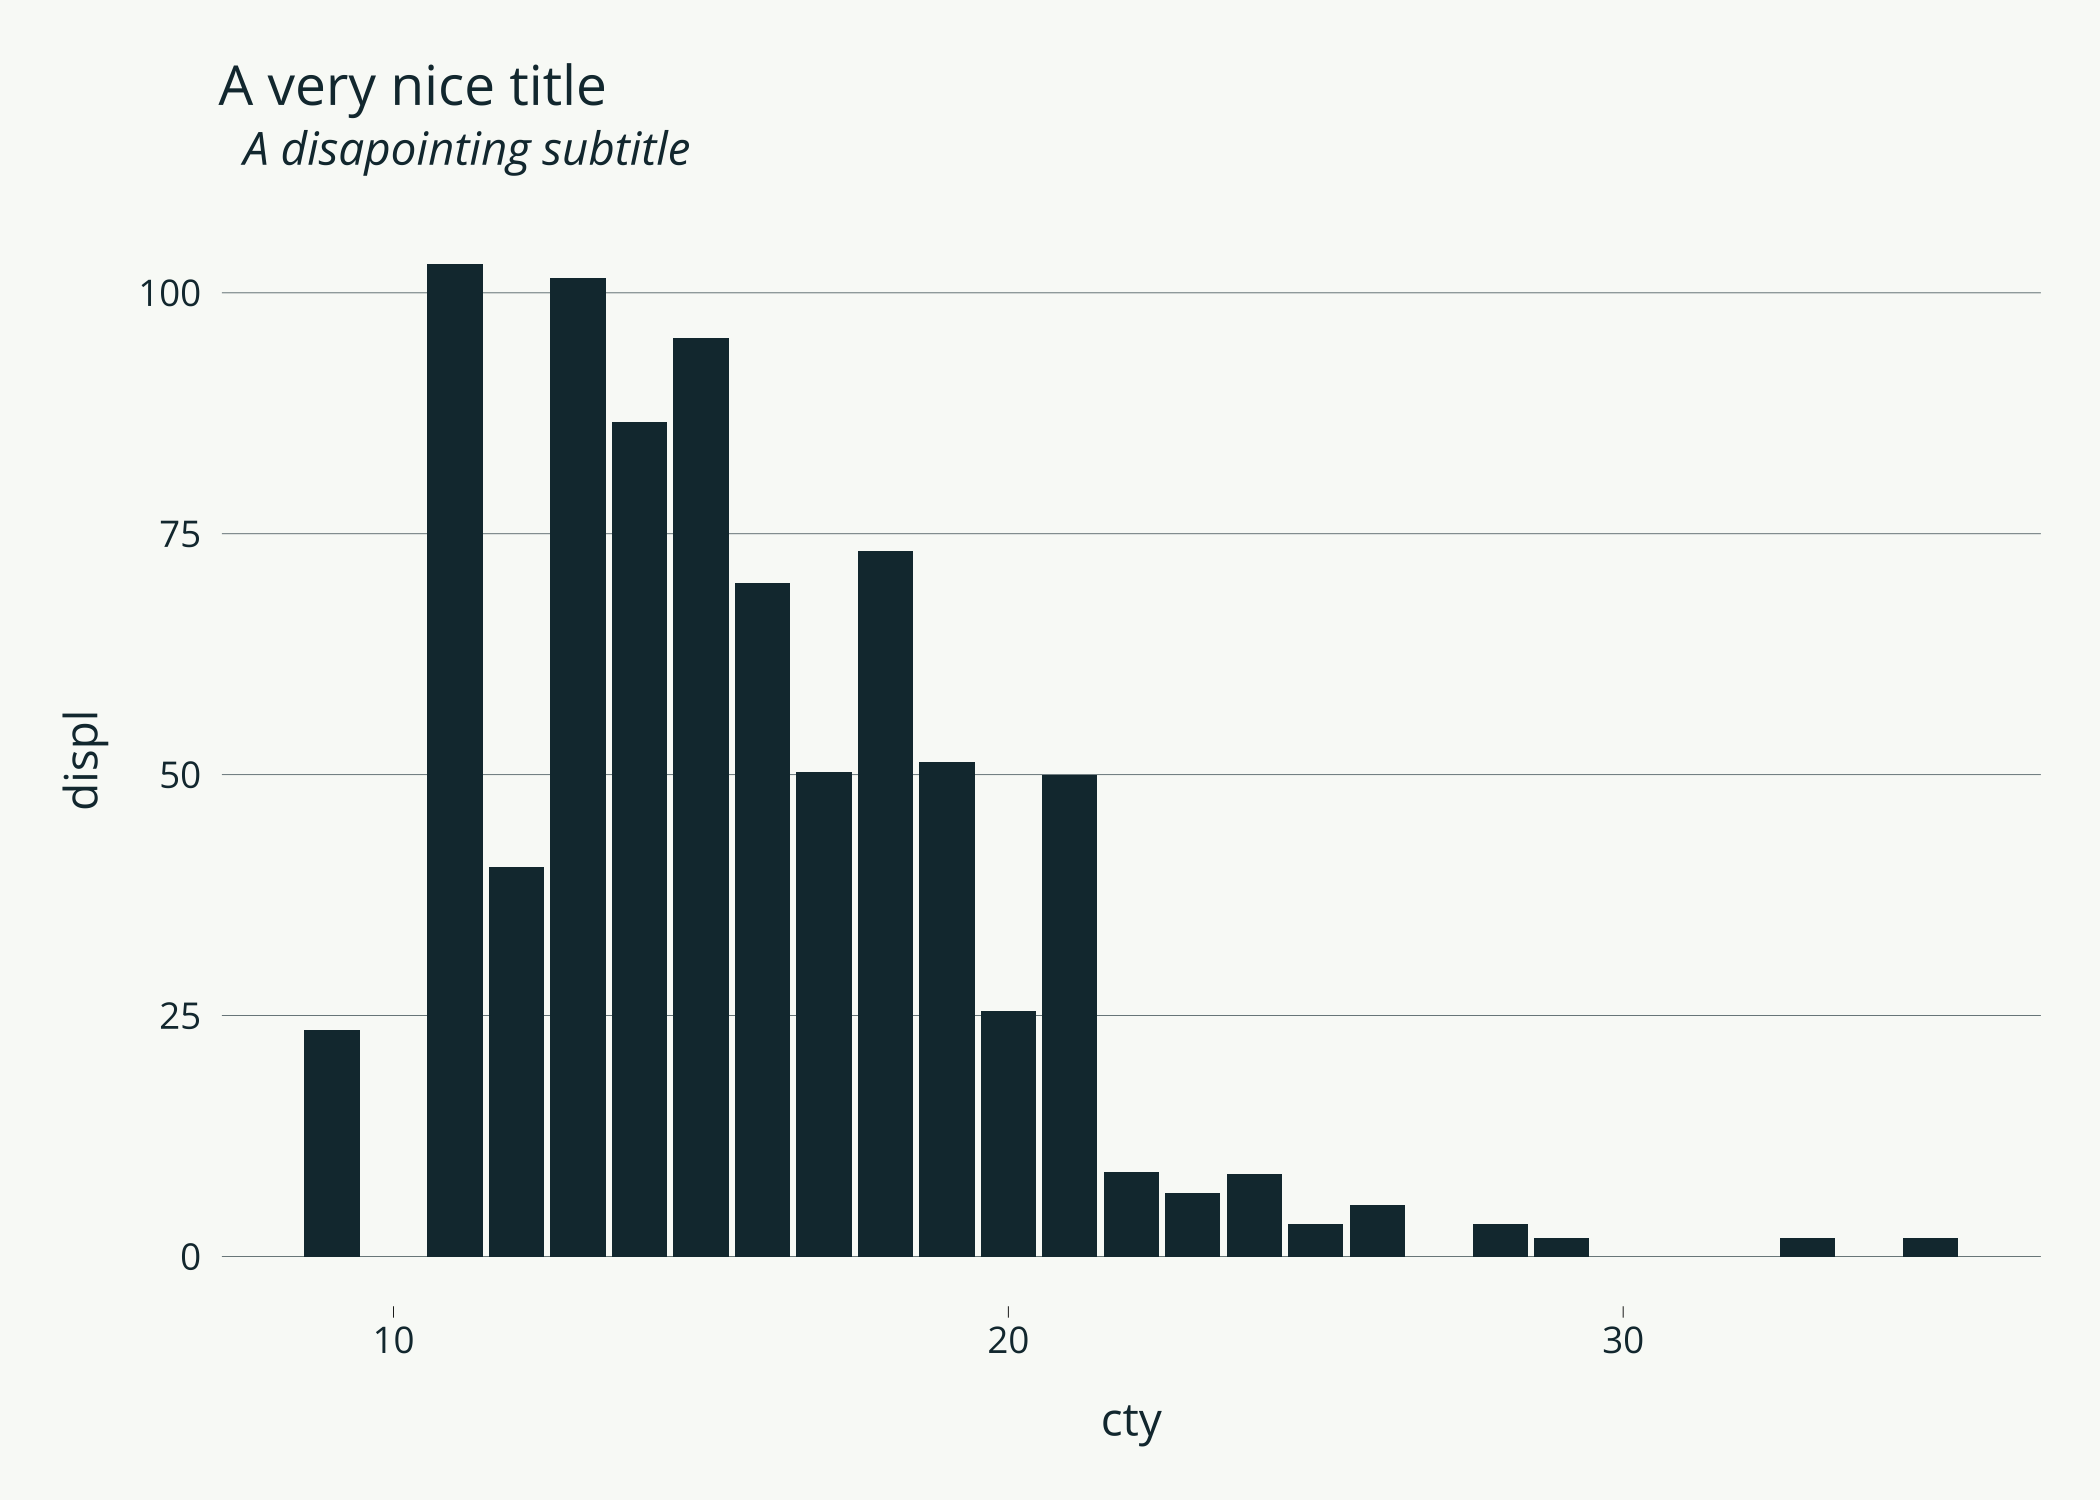
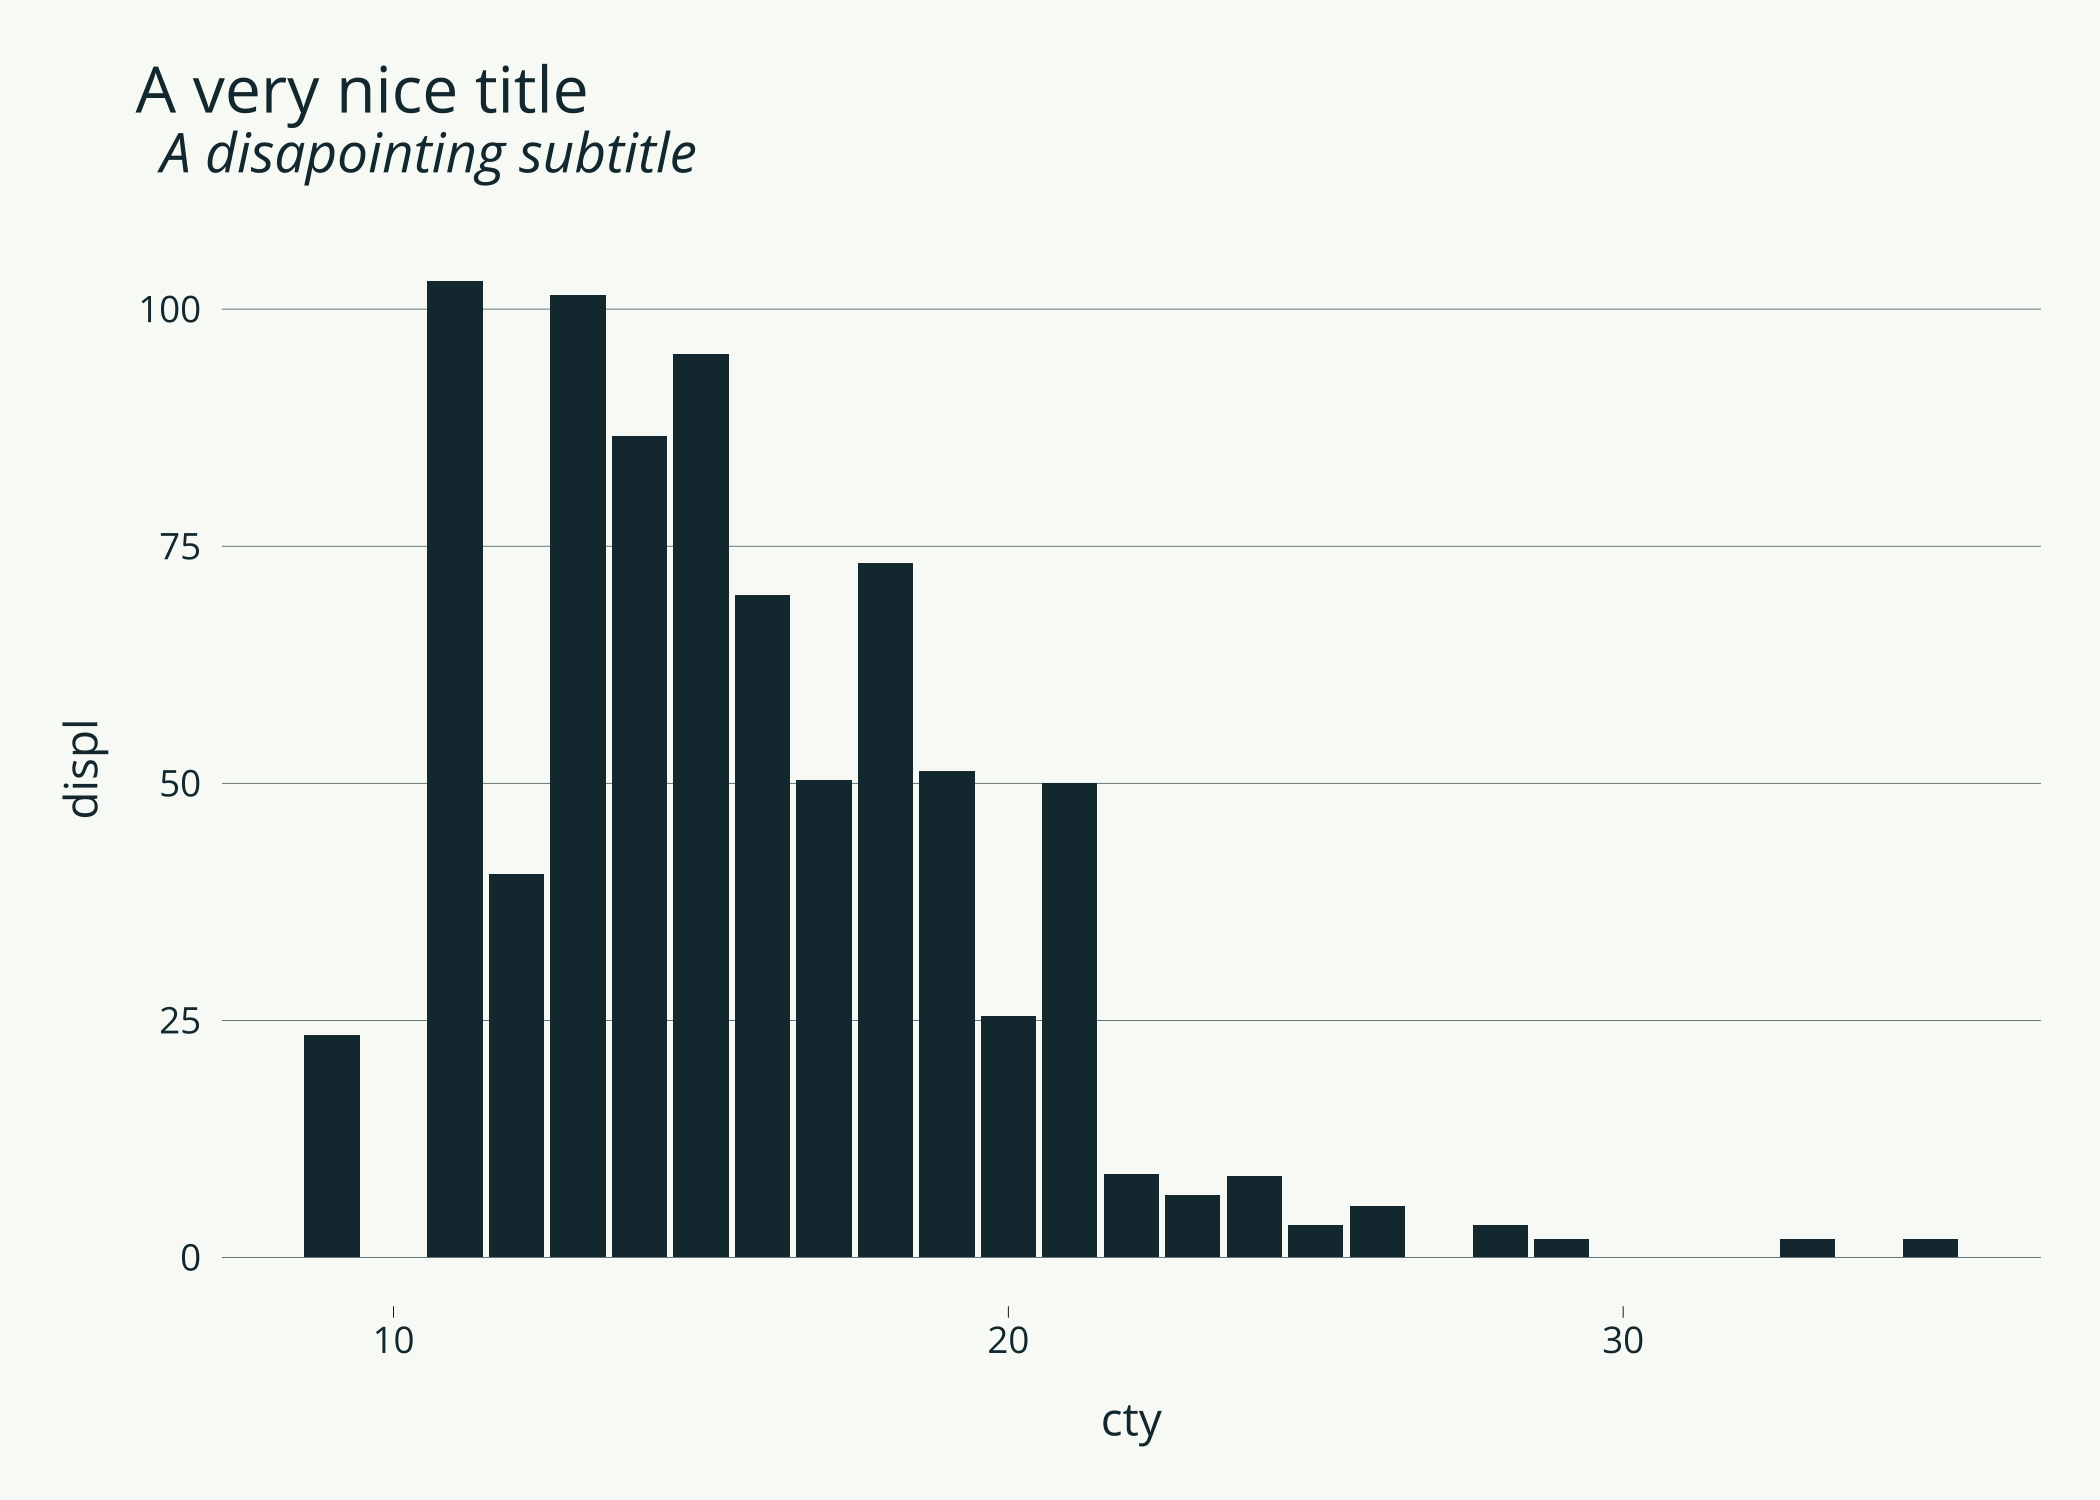
Nicer facets and text sise

diff --git a/README.md b/README.md
@@ -106,3 +106,14 @@ ggplot(df, aes(x, y)) +
 ```
 
 <img src="man/figures/README-unnamed-chunk-5-5.png" width="70%" style="display: block; margin: auto;" />
+
+``` r
+
+ggplot(data = ggplot2::mpg, aes(x = cty, y = displ)) +
+  geom_point() +
+  facet_wrap(~ year) +
+  theme_mediocre() +
+  labs(title = "A very nice title", subtitle = "A desapointing subtitle") 
+```
+
+<img src="man/figures/README-unnamed-chunk-5-6.png" width="70%" style="display: block; margin: auto;" />
